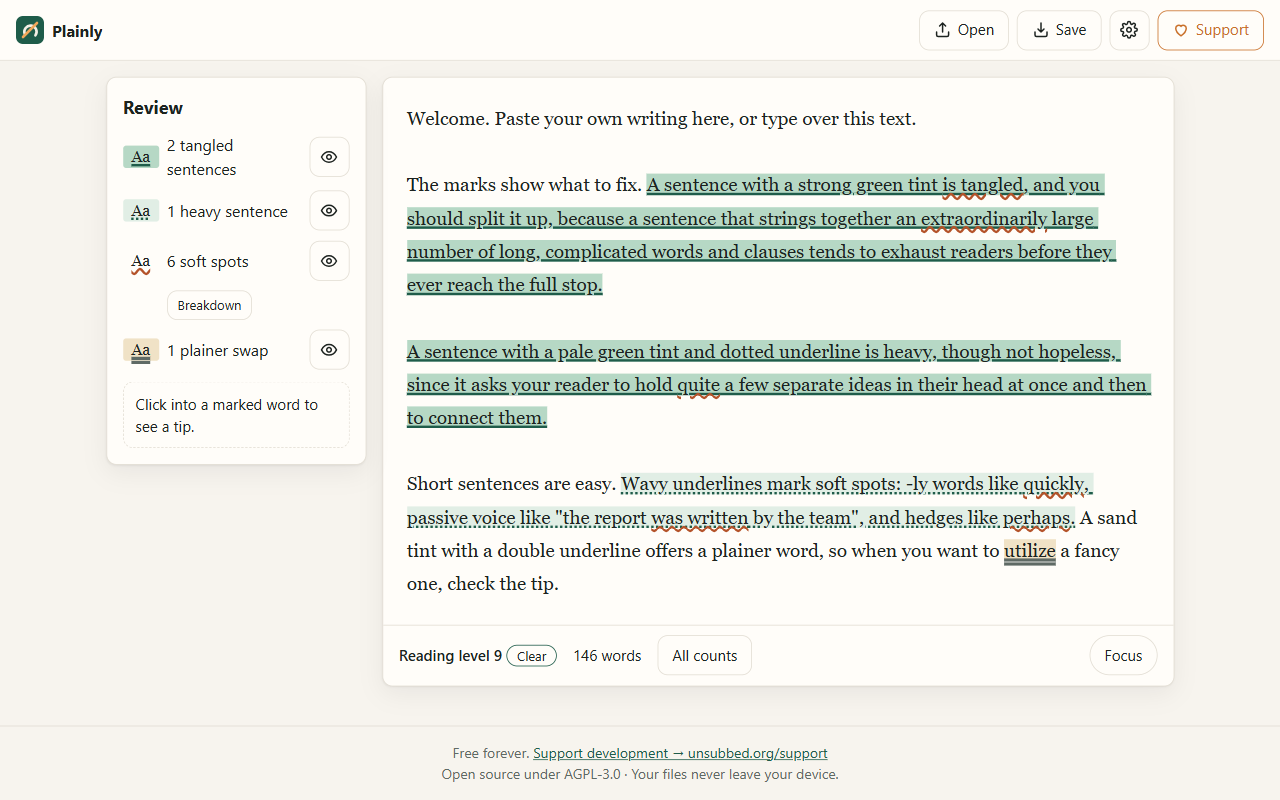
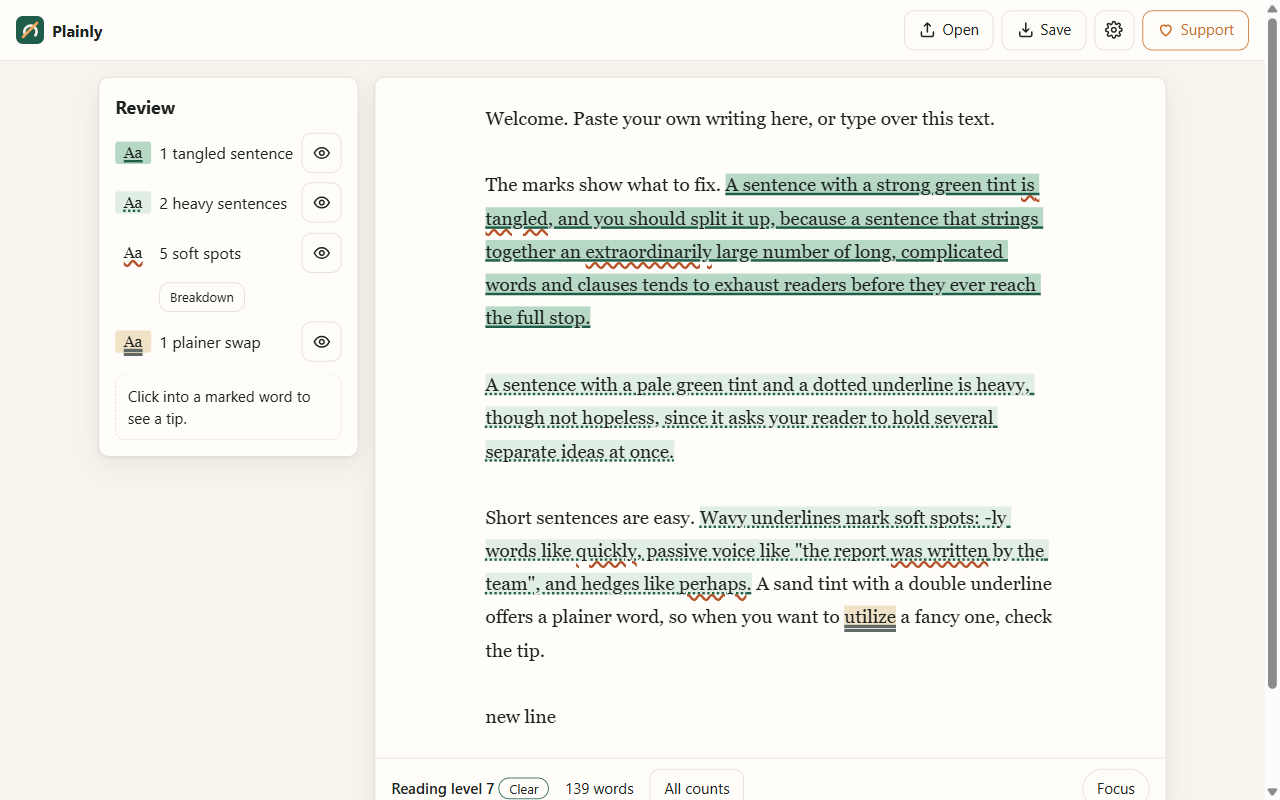
Plainly UI review fixes: reading width, focus width, state validation, resize observer

diff --git a/app.js b/app.js
@@ -11,6 +11,7 @@ A sentence with a pale green tint and a dotted underline is heavy, though not ho
 Short sentences are easy. Wavy underlines mark soft spots: -ly words like quickly, passive voice like "the report was written by the team", and hedges like perhaps. A sand tint with a double underline offers a plainer word, so when you want to utilize a fancy one, check the tip.`;
 
 const ROW_OF = { veryhard: 'veryhard', hard: 'hard', adverb: 'soft', passive: 'soft', qualifier: 'soft', simpler: 'simpler' };
+const ROWS = ['veryhard', 'hard', 'soft', 'simpler'];
 let s = { text: '', mode: 'review', hidden: [], target: 9, more: false, edited: false };
 let result = null, timer;
 
@@ -42,14 +43,28 @@ function paint(text, marks) {
   back.replaceChildren(frag);
 }
 
+// Grow with the text so the backdrop and textarea wrap identically (no inner scrollbar).
+function fit() {
+  box.style.height = 'auto';
+  box.style.height = box.scrollHeight + 'px';
+}
+
+// Keeps only known, well-typed fields from saved or imported state.
+const clean = (o) => ({
+  text: typeof o.text === 'string' ? o.text : '',
+  mode: o.mode === 'focus' ? 'focus' : 'review',
+  hidden: Array.isArray(o.hidden) ? o.hidden.filter((k) => ROWS.includes(k)) : [],
+  target: [6, 9, 12].includes(o.target) ? o.target : 9,
+  more: o.more === true,
+  edited: o.edited === true,
+});
+
 function analyze() {
   const text = box.value;
   result = Plainly.analyze(text, s.target);
-  const { stats: st, counts: c, sentences } = result;
+  const { stats: st, counts: c } = result;
   paint(text, result.marks);
-  // Grow with the text so the backdrop and textarea wrap identically (no inner scrollbar).
-  box.style.height = 'auto';
-  box.style.height = box.scrollHeight + 'px';
+  fit();
   const g = result.grade;
   $('.p-level-n').textContent = g == null ? 'Reading level —' : `Reading level ${g}`;
   $('.p-chip').textContent = g == null ? 'Empty' : g <= s.target ? 'Clear' : g <= s.target + 2 ? 'Fair' : 'Dense';
@@ -57,8 +72,8 @@ function analyze() {
   const secs = st.readingSeconds, rt = `${Math.floor(secs / 60)}m ${secs % 60}s`;
   $('.p-stats').replaceChildren(...[['Letters', st.letters], ['Characters', st.characters], ['Words', st.words],
     ['Sentences', st.sentences], ['Paragraphs', st.paragraphs], ['Reading time', rt]]
-    .map(([k, v]) => { const d = document.createElement('div'); d.innerHTML = '<dt></dt><dd></dd>'; d.firstChild.textContent = k; d.lastChild.textContent = v; return d; }));
-  for (const row of Object.keys(countLine)) $(`[data-row=${row}] .p-count`).textContent = countLine[row](c, sentences.length);
+    .map(([k, v]) => { const d = document.createElement('div'); const dt = document.createElement('dt'), dd = document.createElement('dd'); dt.textContent = k; dd.textContent = v; d.append(dt, dd); return d; }));
+  for (const row of Object.keys(countLine)) $(`[data-row=${row}] .p-count`).textContent = countLine[row](c);
   $('#p-soft-text').textContent = `-ly words ${c.adverb} · passive ${c.passive} · hedges ${c.qualifier}`;
   cursor();
 }
@@ -77,7 +92,7 @@ function apply() {
   editor.classList.toggle('is-focus', s.mode === 'focus');
   wrap.classList.toggle('is-focus', s.mode === 'focus');
   $('.p-focus').setAttribute('aria-pressed', s.mode === 'focus');
-  for (const r of ['veryhard', 'hard', 'soft', 'simpler']) {
+  for (const r of ROWS) {
     const off = s.hidden.includes(r);
     editor.classList.toggle('hide-' + r, off);
     $(`[data-row=${r}] .p-eye`).setAttribute('aria-pressed', !off);
@@ -87,20 +102,20 @@ function apply() {
   analyze();
 }
 
-addEventListener('resize', () => result && analyze());
+new ResizeObserver(fit).observe(box);
 box.addEventListener('input', () => {
   s.text = box.value;
   s.edited = true;
   kit.store();
+  fit(); // now, so the backdrop height does not lag the 150 ms analysis
   clearTimeout(timer);
   timer = setTimeout(analyze, 150);
 });
-for (const ev of ['keyup', 'click']) box.addEventListener(ev, cursor);
 document.addEventListener('selectionchange', () => document.activeElement === box && cursor());
 
 const toggleFocus = () => { s.mode = s.mode === 'focus' ? 'review' : 'focus'; kit.store(); apply(); };
 $('.p-focus').onclick = toggleFocus;
-document.addEventListener('keydown', (e) => { if ((e.ctrlKey || e.metaKey) && e.key === '.') { e.preventDefault(); toggleFocus(); } });
+document.addEventListener('keydown', (e) => { if ((e.ctrlKey || e.metaKey) && !e.shiftKey && !e.altKey && e.key === '.' && !$('#u-settings').open) { e.preventDefault(); toggleFocus(); } });
 document.querySelectorAll('.p-eye').forEach((b) => (b.onclick = () => {
   const r = b.closest('[data-row]').dataset.row;
   s.hidden = s.hidden.includes(r) ? s.hidden.filter((x) => x !== r) : [...s.hidden, r];
@@ -118,7 +133,7 @@ const kit = Unsubbed.app({
   id: 'plainly',
   name: 'Plainly',
   accept: '.txt,.md,.json',
-  load(saved) { s = { ...s, ...saved }; apply(); },
+  load(saved) { s = clean(saved); apply(); },
   state: () => s,
   exportFile() {
     const first = s.text.split('\n').find((l) => l.trim()) || '';
@@ -127,7 +142,7 @@ const kit = Unsubbed.app({
   },
   async importFile(file) {
     const text = await file.text();
-    if (file.name.toLowerCase().endsWith('.json')) s = { ...s, ...JSON.parse(text) };
+    if (file.name.toLowerCase().endsWith('.json')) s = clean(JSON.parse(text));
     else s = { ...s, text, edited: true };
     apply();
   },

diff --git a/index.html b/index.html
@@ -14,7 +14,7 @@
 <body>
   <header class="u-bar">
     <a class="u-brand" href="./">
-      <img src="logo.svg" alt=""><span data-app-name>Plainly</span>
+      <img src="logo.svg" alt=""><span data-app-name>App Name</span>
     </a>
     <button class="u-btn" data-import title="Open a file">
       <svg viewBox="0 0 24 24" fill="none" stroke="currentColor" stroke-width="2" stroke-linecap="round"><path d="M12 15V3m0 0-4 4m4-4 4 4M4 15v4a2 2 0 0 0 2 2h12a2 2 0 0 0 2-2v-4"/></svg>
@@ -50,11 +50,11 @@
     <aside class="p-panel u-card" aria-labelledby="p-review-h">
       <h2 id="p-review-h">Review</h2>
       <ul class="p-rows">
-        <li class="p-row" data-row="veryhard"><span class="p-swatch k-veryhard" aria-hidden="true">Aa</span><span class="p-count"></span><span></span><button type="button" class="u-btn icon p-eye" aria-pressed="true" aria-label="Show Tangled marks" title="Show or hide Tangled marks"><svg viewBox="0 0 24 24" fill="none" stroke="currentColor" stroke-width="2" stroke-linecap="round" stroke-linejoin="round"><path d="M2 12s3.6-7 10-7 10 7 10 7-3.6 7-10 7S2 12 2 12Z"/><circle cx="12" cy="12" r="3"/></svg></button></li>
-        <li class="p-row" data-row="hard"><span class="p-swatch k-hard" aria-hidden="true">Aa</span><span class="p-count"></span><span></span><button type="button" class="u-btn icon p-eye" aria-pressed="true" aria-label="Show Heavy marks" title="Show or hide Heavy marks"><svg viewBox="0 0 24 24" fill="none" stroke="currentColor" stroke-width="2" stroke-linecap="round" stroke-linejoin="round"><path d="M2 12s3.6-7 10-7 10 7 10 7-3.6 7-10 7S2 12 2 12Z"/><circle cx="12" cy="12" r="3"/></svg></button></li>
-        <li class="p-row" data-row="soft"><span class="p-swatch k-adverb" aria-hidden="true">Aa</span><span class="p-count"></span><span></span><button type="button" class="u-btn icon p-eye" aria-pressed="true" aria-label="Show Soft spots marks" title="Show or hide Soft spots marks"><svg viewBox="0 0 24 24" fill="none" stroke="currentColor" stroke-width="2" stroke-linecap="round" stroke-linejoin="round"><path d="M2 12s3.6-7 10-7 10 7 10 7-3.6 7-10 7S2 12 2 12Z"/><circle cx="12" cy="12" r="3"/></svg></button></li>
+        <li class="p-row" data-row="veryhard"><span class="p-swatch k-veryhard" aria-hidden="true">Aa</span><span class="p-count"></span><button type="button" class="u-btn icon p-eye" aria-pressed="true" aria-label="Show Tangled marks" title="Show or hide Tangled marks"><svg viewBox="0 0 24 24" fill="none" stroke="currentColor" stroke-width="2" stroke-linecap="round" stroke-linejoin="round"><path d="M2 12s3.6-7 10-7 10 7 10 7-3.6 7-10 7S2 12 2 12Z"/><circle cx="12" cy="12" r="3"/></svg></button></li>
+        <li class="p-row" data-row="hard"><span class="p-swatch k-hard" aria-hidden="true">Aa</span><span class="p-count"></span><button type="button" class="u-btn icon p-eye" aria-pressed="true" aria-label="Show Heavy marks" title="Show or hide Heavy marks"><svg viewBox="0 0 24 24" fill="none" stroke="currentColor" stroke-width="2" stroke-linecap="round" stroke-linejoin="round"><path d="M2 12s3.6-7 10-7 10 7 10 7-3.6 7-10 7S2 12 2 12Z"/><circle cx="12" cy="12" r="3"/></svg></button></li>
+        <li class="p-row" data-row="soft"><span class="p-swatch k-adverb" aria-hidden="true">Aa</span><span class="p-count"></span><button type="button" class="u-btn icon p-eye" aria-pressed="true" aria-label="Show Soft spots marks" title="Show or hide Soft spots marks"><svg viewBox="0 0 24 24" fill="none" stroke="currentColor" stroke-width="2" stroke-linecap="round" stroke-linejoin="round"><path d="M2 12s3.6-7 10-7 10 7 10 7-3.6 7-10 7S2 12 2 12Z"/><circle cx="12" cy="12" r="3"/></svg></button></li>
         <li class="p-soft-detail"><button type="button" class="u-btn p-details" aria-expanded="false" aria-controls="p-soft-text">Breakdown</button> <span id="p-soft-text" hidden></span></li>
-        <li class="p-row" data-row="simpler"><span class="p-swatch k-simpler" aria-hidden="true">Aa</span><span class="p-count"></span><span></span><button type="button" class="u-btn icon p-eye" aria-pressed="true" aria-label="Show Plainer word marks" title="Show or hide Plainer word marks"><svg viewBox="0 0 24 24" fill="none" stroke="currentColor" stroke-width="2" stroke-linecap="round" stroke-linejoin="round"><path d="M2 12s3.6-7 10-7 10 7 10 7-3.6 7-10 7S2 12 2 12Z"/><circle cx="12" cy="12" r="3"/></svg></button></li>
+        <li class="p-row" data-row="simpler"><span class="p-swatch k-simpler" aria-hidden="true">Aa</span><span class="p-count"></span><button type="button" class="u-btn icon p-eye" aria-pressed="true" aria-label="Show Plainer word marks" title="Show or hide Plainer word marks"><svg viewBox="0 0 24 24" fill="none" stroke="currentColor" stroke-width="2" stroke-linecap="round" stroke-linejoin="round"><path d="M2 12s3.6-7 10-7 10 7 10 7-3.6 7-10 7S2 12 2 12Z"/><circle cx="12" cy="12" r="3"/></svg></button></li>
       </ul>
       <p class="p-tip" role="status"></p>
     </aside>

diff --git a/app.css b/app.css
@@ -24,7 +24,7 @@
 @media (min-width: 900px) {
   .p-wrap { grid-template-columns: 260px minmax(0, 1fr); align-items: start; }
   .p-panel { order: -1; position: sticky; top: 1rem; }
-  .p-wrap.is-focus { grid-template-columns: minmax(0, 760px); justify-content: center; }
+  .p-wrap.is-focus { grid-template-columns: minmax(0, 1fr); }
 }
 .p-wrap.is-focus .p-panel { display: none; }
 
@@ -34,10 +34,12 @@
   font: 1.1875rem/1.75 var(--serif); padding: 1.5rem; border: 0; margin: 0; box-sizing: border-box;
   white-space: pre-wrap; overflow-wrap: break-word; letter-spacing: normal;
 }
+.p-back, .p-text { max-width: calc(30em + 3rem); margin-inline: auto; }
 .p-back { position: absolute; inset: 0; overflow: hidden; color: transparent; pointer-events: none; }
 .p-text { position: relative; display: block; width: 100%; min-height: 18rem; resize: none; overflow: hidden; background: transparent; color: var(--ink); }
 .p-text:focus-visible { outline: 2px solid var(--accent); outline-offset: -2px; }
 mark { color: inherit; background: none; }
+mark mark { text-underline-offset: .22em; } /* word marks sit lower than the sentence underline */
 
 .p-status { display: flex; flex-wrap: wrap; align-items: center; gap: .5rem 1rem; padding: .625rem 1rem; border-top: 1px solid var(--line); font-size: .9375rem; }
 .p-level-n { font-weight: 600; }
@@ -50,7 +52,7 @@ mark { color: inherit; background: none; }
 .is-focus .p-review-only, .is-focus .p-stats { display: none; }
 
 .p-rows { list-style: none; margin: 0; padding: 0; display: grid; gap: .625rem; }
-.p-row { display: grid; grid-template-columns: 2.25rem 1fr auto auto; gap: .5rem; align-items: center; }
+.p-row { display: grid; grid-template-columns: 2.25rem 1fr auto; gap: .5rem; align-items: center; }
 .p-swatch { font: 1rem/1.4 var(--serif); text-align: center; border-radius: 3px; color: var(--ink); }
 .p-eye[aria-pressed="false"] { color: var(--muted); }
 .p-eye[aria-pressed="false"] svg { opacity: .45; }
